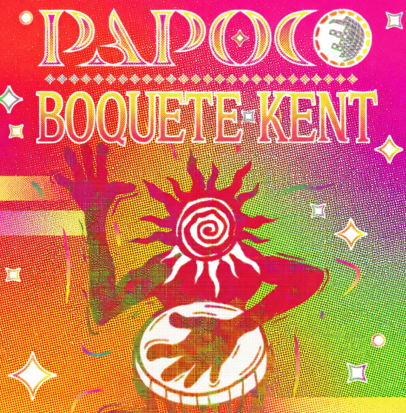
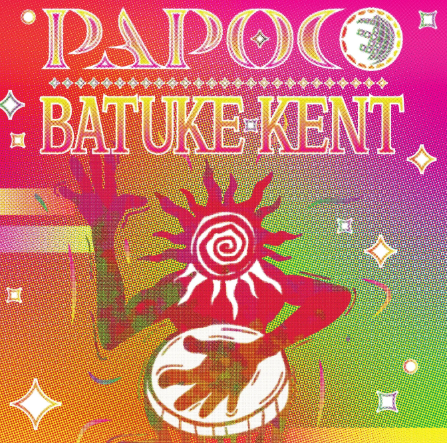
.

diff --git a/script.js b/script.js
@@ -134,7 +134,7 @@ const eventImageMap = {
     'fuga sessions #6': 'assets/fugasessions6.PNG',
     'kaza convida festa base': 'assets/kazaconvidabase.PNG',
     'balanço no mormaço': 'assets/balançomormaço.PNG',
-    'papoco boquete kent': 'assets/papoco2.PNG',
+    'papoco batuque kent': 'assets/papoco2.PNG',
     'house music - clube da prancha': 'assets/clubedaprancha1.PNG',
     'longdreams numa tubulosa': 'assets/tubulosalongdreams.PNG',
     'abertura pré carnaval': 'assets/prefortaleza1601.PNG',
